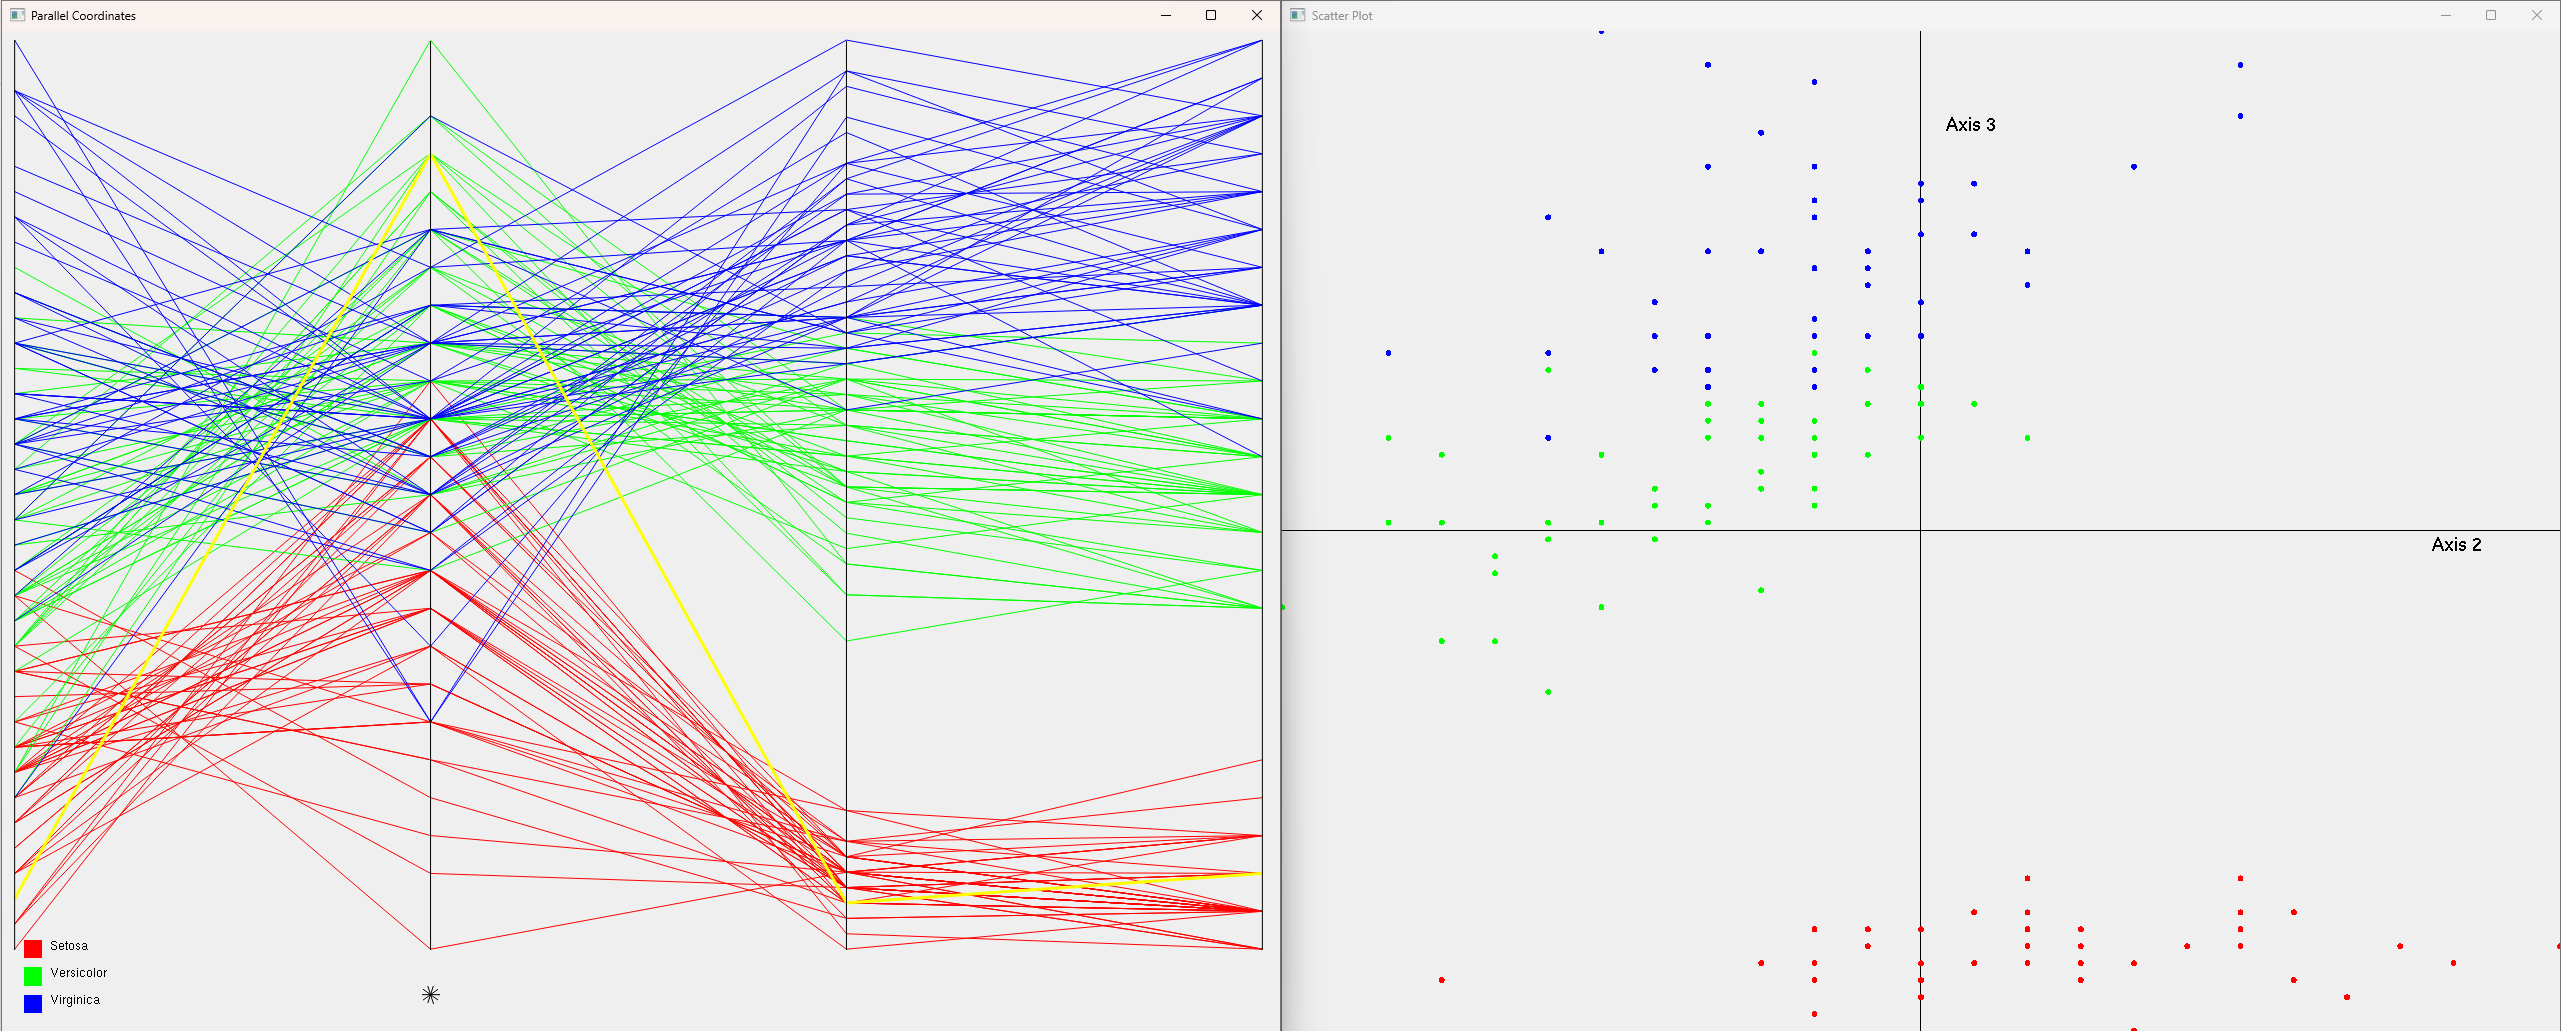
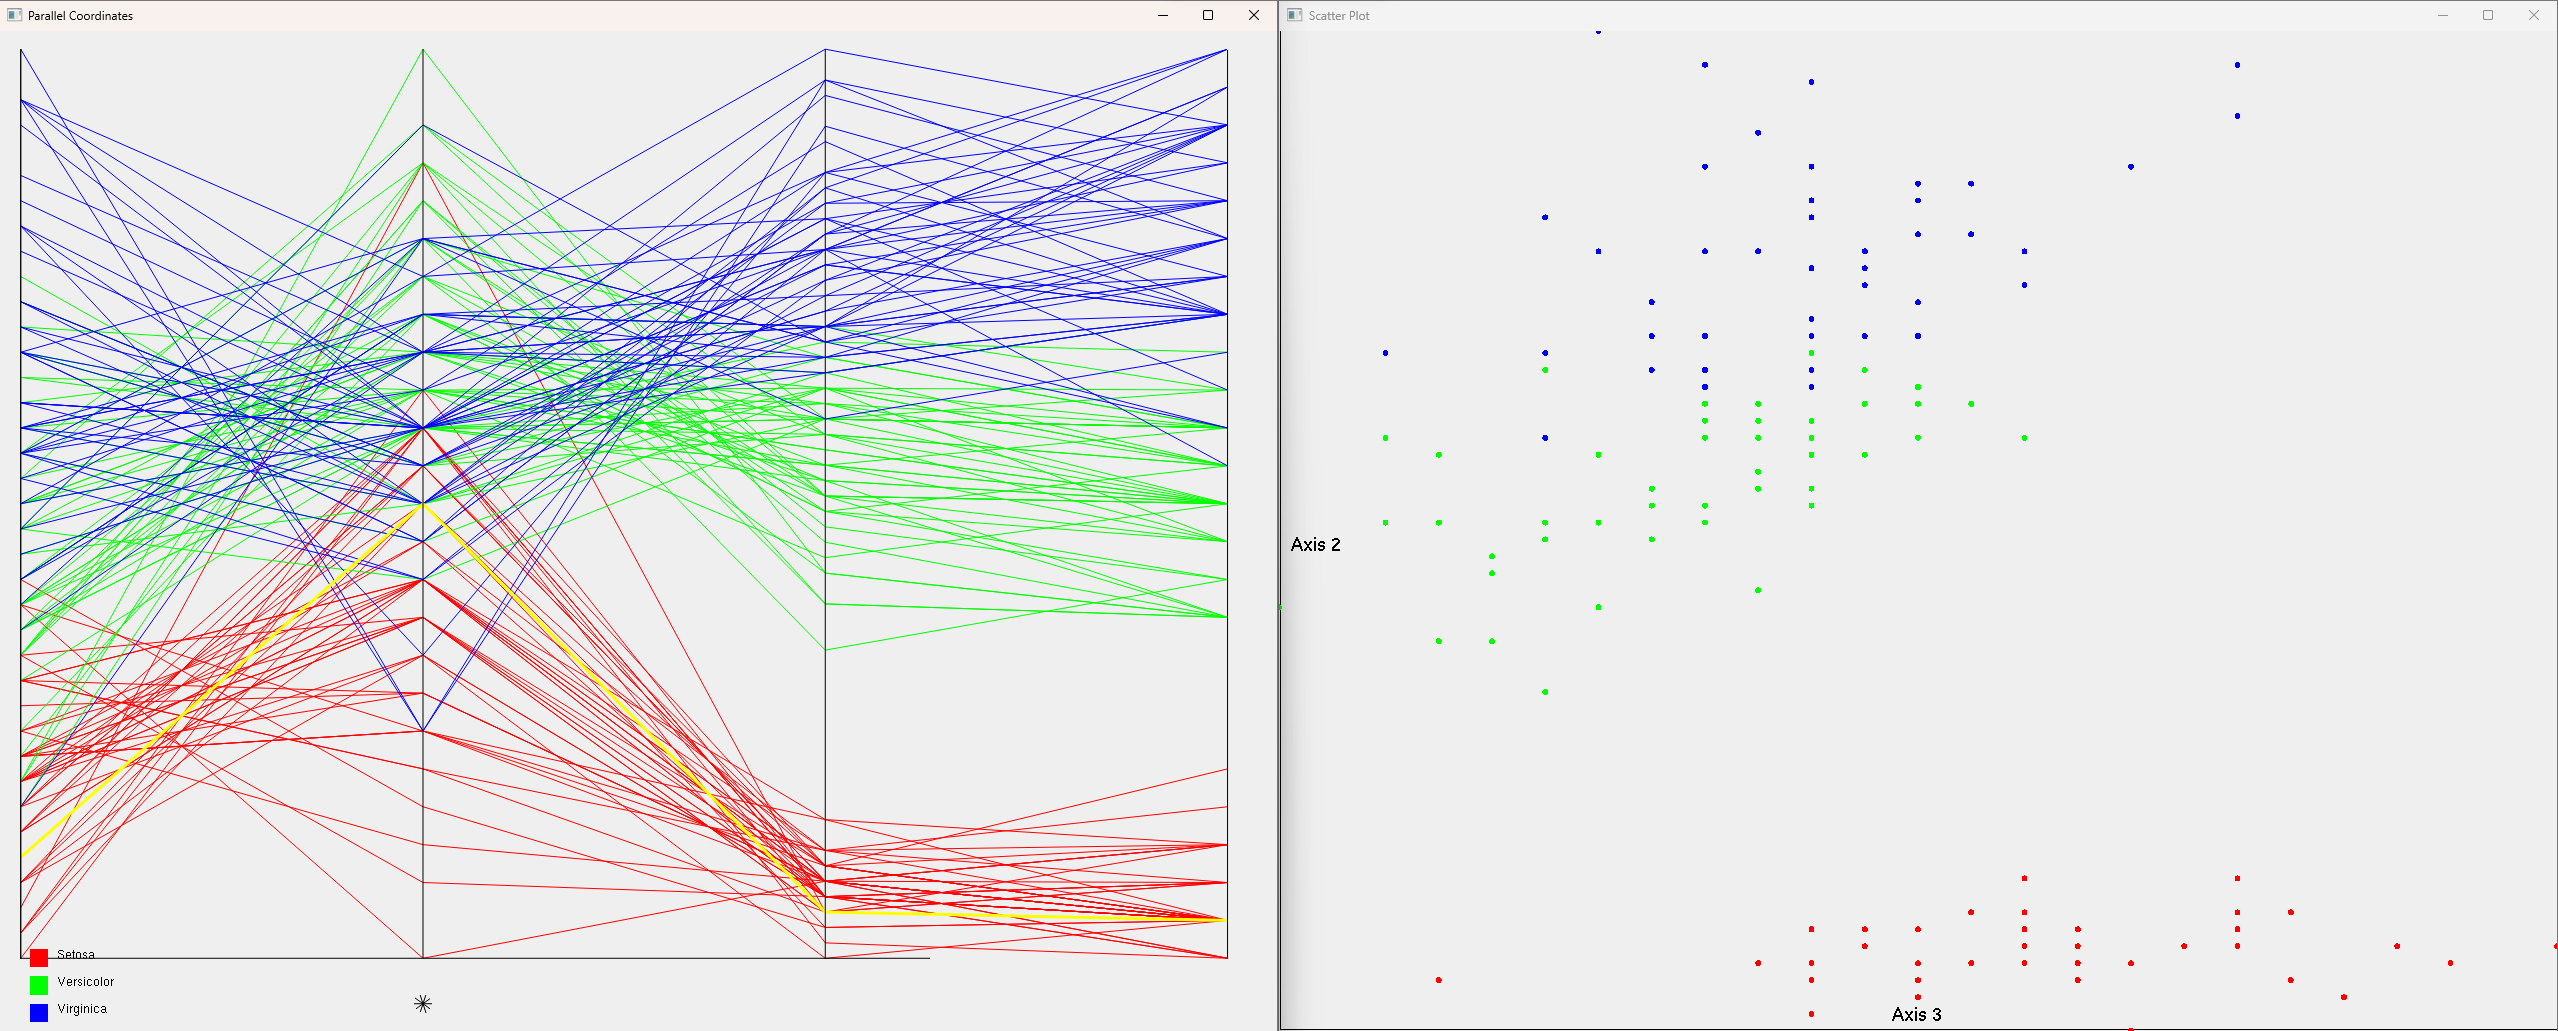
axes fix

diff --git a/CVis.c b/CVis.c
@@ -159,6 +159,18 @@ void draw_star(float cx, float cy, float size) {
 void draw_axes(int cols) {
     glColor3f(0.0f, 0.0f, 0.0f); // Set color for axes (black)
 
+    // Draw horizontal axis (bottom)
+    glBegin(GL_LINES);
+        glVertex2f(0.0f, 0.0f); // Start at bottom left corner
+        glVertex2f(1.0f, 0.0f); // End at bottom right corner
+    glEnd();
+
+    // Draw vertical axis (left)
+    glBegin(GL_LINES);
+        glVertex2f(0.0f, 0.0f); // Start at bottom left corner
+        glVertex2f(0.0f, 1.0f); // End at top left corner
+    glEnd();
+
     for (int col = 0; col < cols; col++) {
         if (col == global_class_col_index) continue; // Skip the 'class' column
 
@@ -795,23 +807,23 @@ void draw_scatter_plot() {
     glMatrixMode(GL_MODELVIEW);
     glLoadIdentity();
 
-    // Draw axis lines
+    // Draw axes
     glColor3f(0.0f, 0.0f, 0.0f); // Black color for axes
     glBegin(GL_LINES);
         // X-axis
-        glVertex2f(0.0f, 0.5f);
-        glVertex2f(1.0f, 0.5f);
+        glVertex2f(0.001f, 0.001f); // Start at bottom left corner
+        glVertex2f(1.0f, 0.001f); // End at bottom right corner
         // Y-axis
-        glVertex2f(0.5f, 0.0f);
-        glVertex2f(0.5f, 1.0f);
+        glVertex2f(0.001f, 0.001f); // Start at bottom left corner
+        glVertex2f(0.001f, 1.0f); // End at top left corner
     glEnd();
 
     // Label axes
     char axis1_label[50], axis2_label[50];
     sprintf(axis1_label, "Axis %d", closest_axis1 + 1);
     sprintf(axis2_label, "Axis %d", closest_axis2 + 1);
-    renderBitmapString(0.9f, 0.48f, GLUT_BITMAP_HELVETICA_18, axis1_label); // X-axis label
-    renderBitmapString(0.52f, 0.9f, GLUT_BITMAP_HELVETICA_18, axis2_label);  // Y-axis label
+    renderBitmapString(0.01f, 0.48f, GLUT_BITMAP_HELVETICA_18, axis1_label); // X-axis label
+    renderBitmapString(0.48f, 0.01f, GLUT_BITMAP_HELVETICA_18, axis2_label);  // Y-axis label
 
     // Draw points for each row using data from the two closest axes
     glBegin(GL_POINTS);
